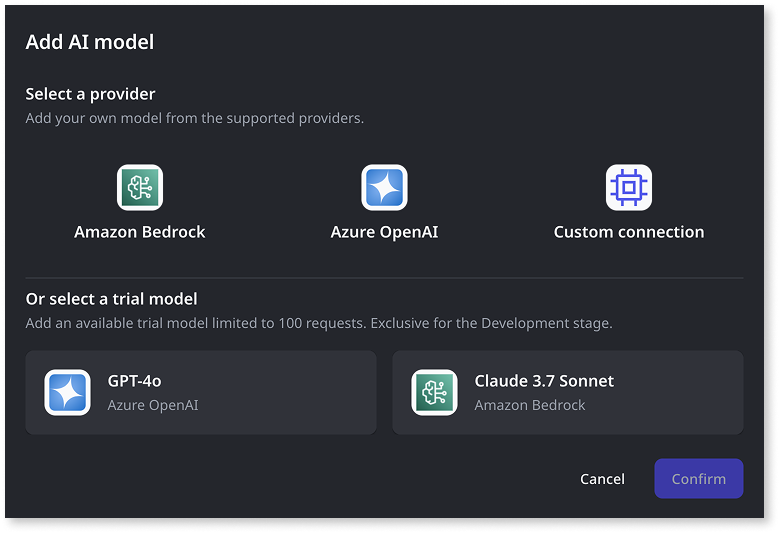
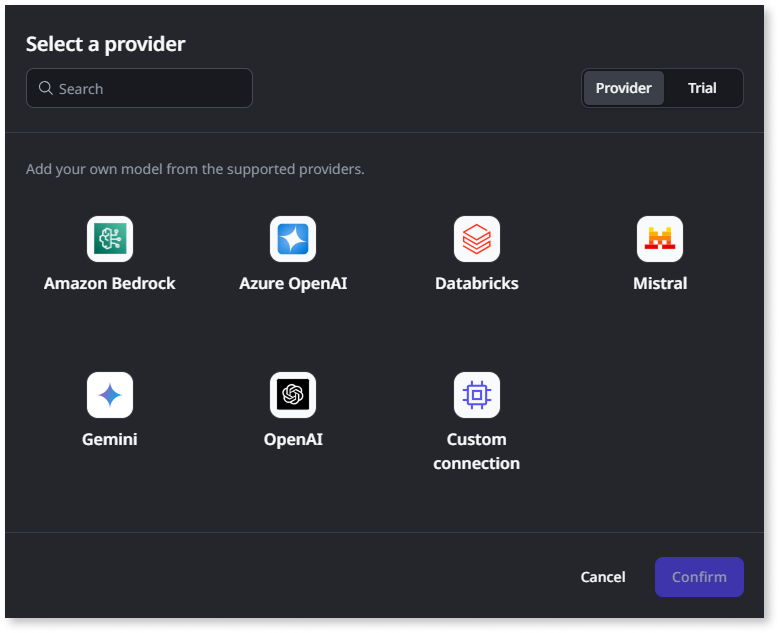
TK-17446 New AI models supported

diff --git a/src/eap/building-apps/build-ai-powered-apps/add-ai-models.md b/src/eap/building-apps/build-ai-powered-apps/add-ai-models.md
@@ -23,16 +23,31 @@ ODC lets you connect your OutSystems apps to external large language models, oft
 
 ## Supported providers and ODC trial models
 
-Using the [ODC API contract](ai-models.md#custom-model-connections), you can add connections to your provisioned models through **Custom connections**. This allows you to integrate with LLMs from various providers or your own private models that are not natively supported by ODC. For natively supported providers like Azure OpenAI and Amazon Bedrock, ODC offers specific integration methods that do not require implementing the generic ODC API contract. ODC currently supports Amazon Bedrock models that are compatible with the [Bedrock Converse API](https://docs.aws.amazon.com/bedrock/latest/userguide/conversation-inference-supported-models-features.html).
+ODC supports connections to AI models from multiple providers, offering flexibility in choosing the right model for your use case:
 
-Alternatively, for quick testing and exploration in the development stage, ODC provides ready-to-use trial models. These include GPT-4o via Azure OpenAI and Claude 3.7 Sonnet via Amazon Bedrock. These trial models allow only 100 calls per tenant and serve for initial evaluation before you set up your own configured connection.
+**Natively supported providers:**
+
+* **Amazon Bedrock** - Compatible with the [Bedrock Converse API](https://docs.aws.amazon.com/bedrock/latest/userguide/conversation-inference-supported-models-features.html)
+* **Azure OpenAI** - Microsoft's OpenAI service
+* **Databricks** - AI models from Databricks platform
+* **Gemini** - Google's AI models
+* **Mistral** - Mistral AI models
+* **OpenAI** - Direct OpenAI API integration
+
+**Custom connections:**
+
+Using the [ODC API contract](ai-models.md#custom-model-connections), you can add connections to your provisioned models through **Custom connections**. This allows you to integrate with LLMs from various providers or your own private models that are not natively supported by ODC.
+
+**ODC trial models:**
+
+For quick testing and exploration in the development stage, ODC provides ready-to-use trial models. These include GPT-4o via Azure OpenAI and Claude 3.7 Sonnet via Amazon Bedrock. Trial models via Azure OpenAI allow only 100 calls per tenant while trial models via Amazon Bedrock allow up to 1000 and serve for initial evaluation before you set up your own configured connection.
 
 ## Prerequisites
 
-Before adding a configured connection to your model provider, such as Azure OpenAI, Amazon Bedrock, or Custom:
+Before adding a configured connection to your model provider:
 
-* Set up, deploy, and ensure the external AI service is accessible on the provider's platform, such as Azure or AWS. Note that an administrator or DevOps team typically performs this external setup, which is not covered here.
-* Obtain the necessary access credentials and details the specific provider requires, such as API keys, endpoint URLs, deployment names, model IDs, and access or secret keys. Refer to the [AI model parameters](#add-ai-models) section below for details.
+* Set up, deploy, and ensure the external AI service is accessible on the provider's platform. Note that an administrator or DevOps team typically performs this external setup, which is not covered here.
+* Obtain the necessary access credentials and details the specific provider requires, such as API keys, endpoint URLs, deployment names, model IDs, and access or secret keys. Refer to the [AI model parameters](#ai-model-parameters) section below for details.
 * Ensure you have the required permissions within ODC to manage AI models. Note that managing AI models utilizes the same permissions as managing connections within the ODC Portal.
 
 These prerequisites don't apply when adding an ODC trial model.
@@ -45,38 +60,40 @@ Follow these steps to add an AI model connection or an ODC trial model in the OD
 
 1. Click **Add AI model**. The **Add AI model** dialog opens.
 
-1. Choose the type of model you want to add:
-    * **Own configured model**: Select the provider, such as Amazon Bedrock, Azure OpenAI, or a custom connection.
-    * **ODC trial model**: Select the desired trial model, for example, GPT or Claude Sonnet.
-    
-      ![Screenshot of the 'Add AI model' dialog in the ODC Portal showing options to select a provider or a trial model.](images/add-ai-model-pl.png "Add AI Model Dialog in ODC Portal")
+1. Choose the type of model you want to add by selecting the appropriate tab:
+    * **Provider tab**: Select this tab to configure your own AI model from a supported provider or a custom connection.
 
-1. Click **Confirm**.
-    * **For your own configured model**, proceed to configure the connection details.
-    * **For the ODC trial model**, ODC adds the trial model directly to your list, completing the setup.
+    ![Screenshot of the 'Add AI model' dialog in the ODC Portal showing Provider and Trial tabs.](images/add-ai-model-pl.png "Add AI Model Dialog in ODC Portal")
 
-1. On the model configuration page that appears, enter a unique 
-**Name** and an optional **Description** for this AI model connection.
+    * **Trial tab**: Select this tab to add a ready-to-use ODC trial model, for example, GPT or Claude Sonnet.
 
-1. In the **Endpoints** section, click **+ Add** to open the **Add endpoint** dialog.
+    ![Screenshot of the 'Select a provider' dialog in the ODC Portal showing available trial AI models.](images/trial-model-pl.png "Select a Trial AI Model in ODC Portal")
+
+1. **For Provider tab**: Select your desired provider from the available options and click **Confirm** to proceed to the configuration details.
+
+1. **For Trial tab**: Select your desired trial model and click **Confirm**. ODC adds the trial model directly to your list, completing the setup. You can skip the remaining steps for trial models.
+
+1. **For configured provider models only**: On the model configuration page that appears, enter a unique **Name** and an optional **Description** for this AI model connection.
+
+1. **For configured provider models only**: In the **Endpoints** section, click **+ Add** to open the **Add endpoint** dialog.
   ![Screenshot of the 'Add endpoint' button in the ODC Portal under the Configuration section.](images/add-endpoints-pl.png "Add Endpoint Button in ODC Portal")
 
-1. Enter the required endpoint details for the provider you selected. Set the **Priority** for this endpoint. For details about the fields, refer to the [AI model parameters](#add-ai-models-add-ai-models-) section. Click **Save**.
+1. **For configured provider models only**: Enter the required endpoint details for the provider you selected. Set the **Priority** for this endpoint. For details about the fields, refer to the [AI model parameters](#ai-model-parameters) section. Click **Save**.
   ![Screenshot of the 'Add endpoint' dialog in the ODC Portal showing fields for Access key, Secret key, and Priority.](images/set-priority-endpoint-configuration-pl.png "Set Priority in Endpoint Configuration")
 
-1. Optionally, add more endpoints if you have them available for different stages, such as development and production. More endpoints also enable load balancing. Ensure all endpoints under one connection use the same underlying AI model and version.
+1. **For configured provider models only**: Optionally, add more endpoints if you have them available for different stages, such as development and production. More endpoints also enable load balancing. Ensure all endpoints under one connection use the same underlying AI model and version.
 
-1. Optionally, in the **Usage limit** section, set a daily token limit to control the model consumption.
+1. **For configured provider models only**: Optionally, in the **Usage limit** section, set a daily token limit to control the model consumption.
 
-1. If you added multiple endpoints, adjust their priority order on the main model configuration page using the edit icon next to each endpoint.
+1. **For configured provider models only**: If you added multiple endpoints, adjust their priority order on the main model configuration page using the edit icon next to each endpoint.
 
-1. Click **Save** to confirm.
+1. **For configured provider models only**: Click **Save** to confirm.
 
 After you complete the steps, ODC redirects you to the main AI models page. You can now use the newly added model connection or ODC trial model within your apps in ODC Studio.
 
 ## AI model parameters { #ai-model-parameters }
 
-Use the following parameters when configuring endpoints for Azure OpenAI, Amazon Bedrock models, and Custom AI models in the ODC Portal.
+Use the following parameters when configuring endpoints for the supported AI model providers in the ODC Portal. The specific parameters required will depend on the provider you choose.
 
 ### Azure OpenAI parameters
 
@@ -84,6 +101,7 @@ Use the following parameters when configuring Azure OpenAI model endpoints.
 
 | Parameter | Description | Notes |
 | :---- | :---- | :---- |
+| Name | User-defined, identifiable name for the endpoint instance. | Differentiates between multiple endpoints for the same Azure OpenAI model connection. |
 | Deployment name | The name of your model deployment within the Azure OpenAI service. | Obtain from the Azure portal. |
 | API key | The authentication key required to access the Azure OpenAI service. | Obtain from the Azure portal. Treat this securely. |
 | URL | The endpoint URL for the Azure OpenAI service. | Obtain from the Azure portal. |
@@ -108,12 +126,59 @@ Use these parameters when configuring custom connection AI models and their endp
 
 | Parameter   | Description | Notes |
 | :---------- | :-------------------------------------- | :----------------------------------- |
-| Name        | A unique, user-defined name for this specific AI model connection in ODC. Set on the main connection page.                      | Helps you identify this connection later (e.g., "My Custom Text Generator"). |
-| Description | An optional description for the AI model connection. Set on the main connection page. | Useful for adding context about the connection purpose.                                                                                                                                          |
+| Name        | User-defined, identifiable name for the endpoint instance. |  Differentiates between multiple endpoints for the same custom AI model connection. |
 | Model ID    | The identifier for the specific custom model being used. | |
 | URL         | The endpoint URL for the custom AI service or model API.| Enter the base URL provided by the custom model service.                                                                                                                                           |
 | Priority    | Determines the order endpoints are used where one is the highest. Lower-priority endpoints act as fallbacks. | The first endpoint added will be assigned Priority 1 by default. You can adjust priorities if multiple endpoints exist.                                                                             |
 | Headers     | A set of HTTP headers required by the custom API (authentication, content type, etc.).  | For the endpoint dialog to add necessary key-value pairs (for example, `Content-Type`, `Authorization`). These are specific to the API you are connecting to.                         |
+
+### Databricks parameters
+
+Use these parameters when configuring Databricks AI model endpoints.
+
+| Parameter | Description | Notes |
+| :---- | :---- | :---- |
+| Name | User-defined, identifiable name for the endpoint instance. | Differentiates between multiple endpoints for the same Databricks model connection. |
+| Serving endpoint name | The identifier for the specific Databricks model being used. | Obtain from your Databricks workspace. |
+| Personal access token (PAT) | The authentication token required to access the Databricks API. | Obtain from your Databricks workspace. Treat this securely. |
+| URL | The endpoint URL for the Databricks model API. | Obtain from your Databricks workspace configuration. URL should follow this format: [Databricks instance name]/serving-endpoints|
+| Priority | Determines the order of endpoints, with one being the highest. Lower-priority endpoints act as fallbacks. | You can adjust priorities if multiple endpoints exist. |
+
+### Gemini parameters
+
+Use these parameters when configuring Google Gemini model endpoints.
+
+| Parameter | Description | Notes |
+| :---- | :---- | :---- |
+| Name | User-defined, identifiable name for the endpoint instance. | Differentiates between multiple endpoints for the same Gemini model connection. |
+| Model ID | The identifier for the specific Gemini model being used. | For example, gemini-1.5-pro or gemini-1.5-flash. |
+| API key | The authentication key required to access the Gemini API. | Obtain from Google AI Studio or Google Cloud Console. Treat this securely. |
+| URL | The endpoint URL for the Gemini API. | Typically follows the format generativelanguage.googleapis.com. |
+| Priority | Determines the order of endpoints, with one being the highest. Lower-priority endpoints act as fallbacks. | You can adjust priorities if multiple endpoints exist. |
+
+### Mistral parameters
+
+Use these parameters when configuring Mistral AI model endpoints.
+
+| Parameter | Description | Notes |
+| :---- | :---- | :---- |
+| Name | User-defined, identifiable name for the endpoint instance. | Differentiates between multiple endpoints for the same Mistral connection. |
+| Model ID | The identifier for the specific Mistral model being used. | For example, mistral-large-latest or mistral-small-latest. |
+| API key | The authentication key required to access the Mistral API. | Obtain from your Mistral AI account. Treat this securely. |
+| URL | The endpoint URL for the Mistral API. | Typically follows the format api.mistral.ai. |
+| Priority | Determines the order of endpoints, with one being the highest. Lower-priority endpoints act as fallbacks. | You can adjust priorities if multiple endpoints exist. |
+
+### OpenAI parameters
+
+Use these parameters when configuring OpenAI model endpoints (direct OpenAI API, not Azure OpenAI).
+
+| Parameter | Description | Notes |
+| :---- | :---- | :---- |
+| Name | User-defined, identifiable name for the endpoint instance. | Differentiates between multiple endpoints for the same OpenAI model connection. |
+| Model ID | The identifier for the specific OpenAI model being used. | For example, gpt-4o, gpt-4-turbo, or gpt-3.5-turbo. |
+| API key | The authentication key required to access the OpenAI API. | Obtain from your OpenAI account. Treat this securely. |
+| URL | The endpoint URL for the OpenAI API. | Typically api.openai.com/v1. |
+| Priority | Determines the order of endpoints, with one being the highest. Lower-priority endpoints act as fallbacks. | You can adjust priorities if multiple endpoints exist. |
 
 ## Next steps
 

diff --git a/src/eap/building-apps/build-ai-powered-apps/ai-models.md b/src/eap/building-apps/build-ai-powered-apps/ai-models.md
@@ -30,7 +30,7 @@ In addition to directly interacting with AI models, ODC enables you to connect t
 
 ## Use trial models
 
-To help you quickly experiment with AI features without immediately setting up your model connection, ODC offers pre-configured trial models (provided via Azure OpenAI and Amazon Bedrock). You can add these models directly within ODC and call them from your apps running in the Development stage. Note that each trial model is limited to 100 calls per ODC tenant and is intended for initial testing or proof-of-value exploration before configuring your persistent AI model connection.
+To help you quickly experiment with AI features without immediately setting up your model connection, ODC offers pre-configured trial models (provided via Azure OpenAI and Amazon Bedrock). You can add these models directly within ODC and call them from your apps running in the Development stage. Note that trial models via Azure OpenAI are limited to 100 calls per ODC tenant and trial models via Amazon Bedrock allow up to 1000 and are intended for initial testing or proof-of-value exploration before configuring your persistent AI model connection.
 
 ## Custom model connections { #custom-model-connections }
 
